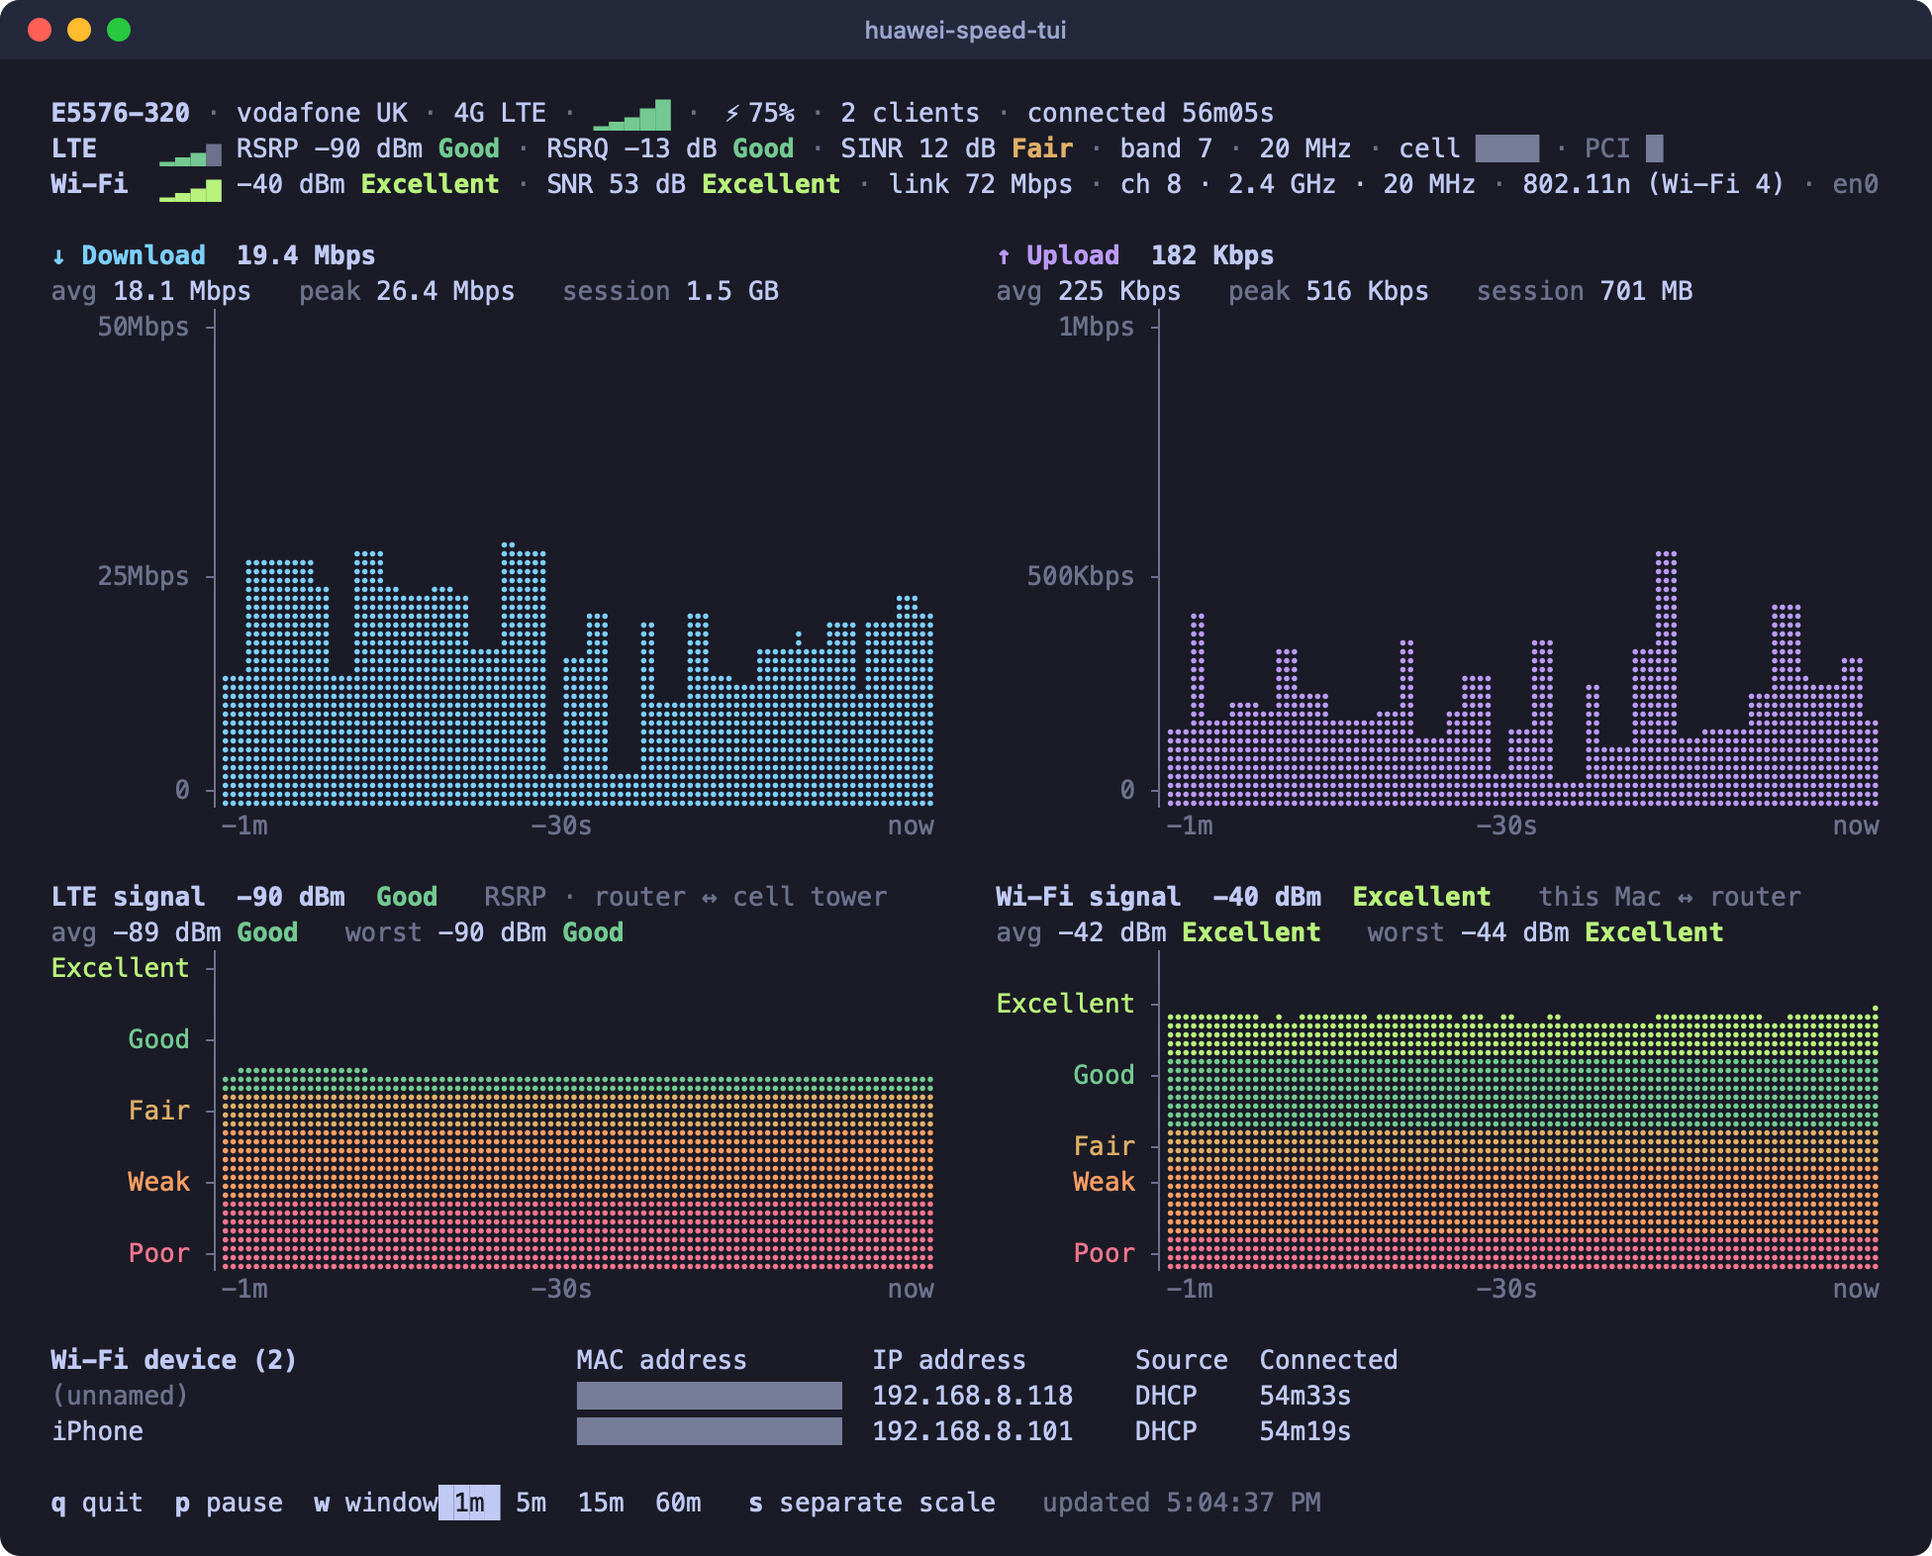
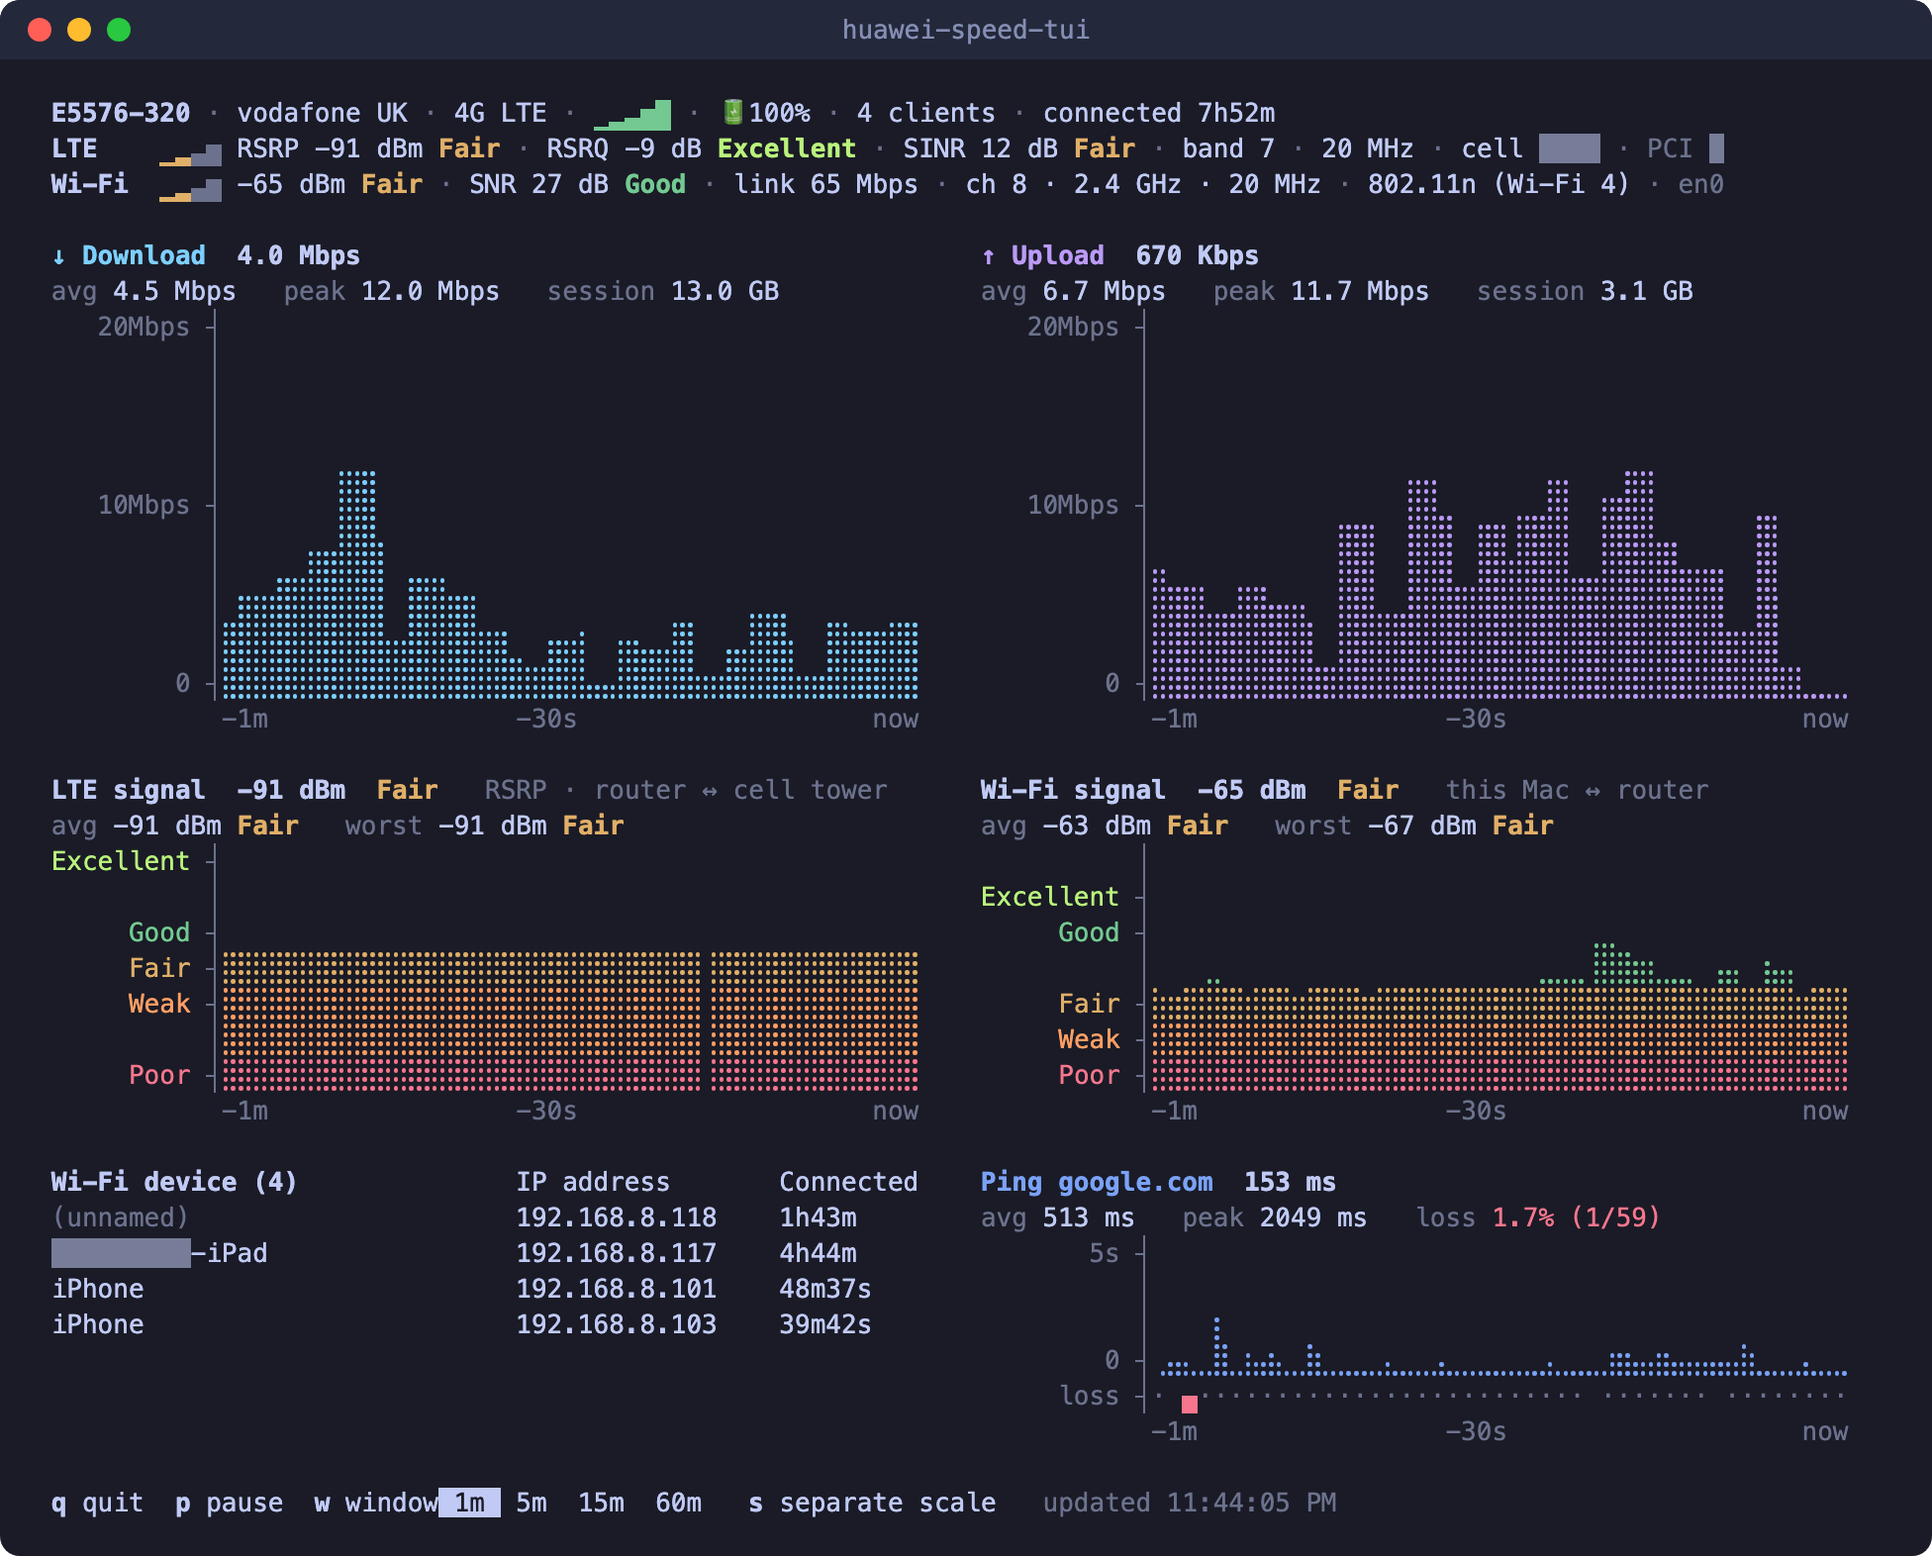
Release 1.1.0: add a ping latency and packet loss chart
- New panel next to the Wi-Fi device list pings a host on the internet
  (google.com, or --ping <host>) through the system ping and charts the
  round-trip time, with a strip underneath marking lost packets. Late
  replies are not counted as lost; a name that doesn't resolve is
  retried every few seconds. The device table now takes the left half
  of the bottom row.
- Fix the last character of full-width lines being erased, which made
  the right-hand time axes read "no" instead of "now" on odd-width
  terminals: clear each line before writing it instead of after.
- Update the screenshot (cell ID, PCI and the owner's name in a device
  name are redacted).

diff --git a/src/main.ts b/src/main.ts
@@ -12,6 +12,7 @@ import {
   rate,
   type Band,
 } from './ratings.ts';
+import { PingMonitor } from './ping.ts';
 import { WifiMonitor } from './wifi.ts';
 
 const HELP = `huawei-speed-tui — live upload/download charts for Huawei mobile WiFi
@@ -24,6 +25,8 @@ Options:
   --interval <seconds>  Polling interval (default: 1)
   --window <seconds>    Initial chart time window (default: 60)
   --snapshot <seconds>  Collect for N seconds, print one frame and exit
+  --ping <host>         Host to ping for latency and packet loss
+                        (default: google.com)
   --user <name>         Router admin user (default: admin)
                         (or set HUAWEI_USER)
   --password <pw>       Router admin password, needed for the device list
@@ -49,6 +52,7 @@ const { values: args } = parseArgs({
     interval: { type: 'string', default: '1' },
     window: { type: 'string', default: '60' },
     snapshot: { type: 'string' },
+    ping: { type: 'string', default: 'google.com' },
     user: { type: 'string' },
     password: { type: 'string' },
     help: { type: 'boolean', short: 'h' },
@@ -99,7 +103,9 @@ let mobile: MobileSignal | undefined;
 let mobileAt = 0;
 let mobileError = '';
 const mobileSamples: { t: number; rsrp: number }[] = [];
-const wifi = new WifiMonitor(new URL(host).hostname, intervalMs, (Math.max(...WINDOWS, windowSec) + 60) * 1000);
+const keepMs = (Math.max(...WINDOWS, windowSec) + 60) * 1000;
+const wifi = new WifiMonitor(new URL(host).hostname, intervalMs, keepMs);
+const ping = new PingMonitor(args.ping, intervalMs, keepMs);
 
 // ---- ANSI helpers ---------------------------------------------------------
 
@@ -113,6 +119,7 @@ const c = {
   yellow: `${ESC}33m`,
   down: `${ESC}36m`, // cyan
   up: `${ESC}35m`, // magenta
+  ping: `${ESC}94m`, // bright blue
   inverse: `${ESC}7m`,
 };
 // Rating colours, indexed by rate().level: Poor … Excellent.
@@ -404,6 +411,69 @@ function renderWifiPanel(width: number, rows: number, end: number): string[] {
   );
 }
 
+// ---- ping (latency and packet loss to the internet) ---------------------------
+
+function latencyLabel(ms: number): string {
+  return ms >= 1000 ? `${ms / 1000}s` : `${ms}ms`;
+}
+
+/** Title, stats, a latency chart `rows - 1` high with a packet-loss strip below it, and a time axis. */
+function renderPingPanel(width: number, rows: number, end: number): string[] {
+  const windowMs = windowSec * 1000;
+  const recent = ping.samples.filter((s) => s.t >= end - windowMs && s.t <= end);
+  const error = ping.error ? paint(c.red, `⚠ ${ping.error}`) : '';
+  const title = paint(c.bold + c.ping, `Ping ${ping.target}`);
+  if (!recent.length) return [` ${title}`, ` ${error || paint(c.dim, 'waiting for replies…')}`];
+
+  const gapMs = ping.intervalMs * 3 + 1000;
+  const latest = recent.at(-1)!;
+  let current = '';
+  if (end - latest.t < gapMs) {
+    current = latest.rtt === null ? paint(c.bold + c.red, 'lost') : paint(c.bold, `${Math.round(latest.rtt)} ms`);
+  }
+  const lines = [` ${title}  ${current}   ${error}`];
+
+  const replies = recent.filter((s) => s.rtt !== null) as { t: number; rtt: number }[];
+  const lost = recent.length - replies.length;
+  const avg = replies.length ? replies.reduce((sum, s) => sum + s.rtt, 0) / replies.length : 0;
+  const peak = Math.max(0, ...replies.map((s) => s.rtt));
+  const loss = `${((lost / recent.length) * 100).toFixed(1)}% (${lost}/${recent.length})`;
+  lines.push(
+    (replies.length
+      ? ` ${paint(c.dim, 'avg')} ${Math.round(avg)} ms   ${paint(c.dim, 'peak')} ${Math.round(peak)} ms   `
+      : ' ') + `${paint(c.dim, 'loss')} ${lost ? paint(c.red, loss) : loss}`,
+  );
+
+  const cols = Math.max(1, width - AXIS_W);
+  const chartRows = Math.max(1, rows - 1);
+  const scaleMax = niceCeil(Math.max(50, peak));
+  const chart = renderArea(
+    resample(replies, (s) => s.rtt, cols * 2, end, windowMs, gapMs),
+    cols,
+    chartRows,
+    scaleMax,
+  );
+  for (let r = 0; r < chartRows; r++) {
+    let label = '';
+    if (r === 0) label = latencyLabel(scaleMax);
+    else if (r === Math.floor(chartRows / 2) && chartRows >= 5) label = latencyLabel(scaleMax / 2);
+    else if (r === chartRows - 1) label = '0';
+    const tick = label ? '┤' : '│';
+    lines.push(paint(c.dim, `${label.padStart(AXIS_W - 2)} ${tick}`) + paint(c.ping, chart[r]));
+  }
+
+  // Share of packets lost in each column: a dot for none, a red bar growing with the loss.
+  // No gap filling here, so a column without any ping result stays blank.
+  const lossBars = '▁▂▃▄▅▆▇█';
+  const strip = resample(recent, (s) => (s.rtt === null ? 1 : 0), cols, end, windowMs, 0)
+    .map((f) => (f === null ? ' ' : f === 0 ? paint(c.dim, '·') : paint(c.red, lossBars[Math.ceil(f * 8) - 1])))
+    .join('');
+  lines.push(paint(c.dim, `${'loss'.padStart(AXIS_W - 2)} ┤`) + strip);
+
+  lines.push(timeAxis(cols, AXIS_W));
+  return lines;
+}
+
 function signalBars(level: number, max: number, color = c.green): string {
   const bars = '▁▂▃▅▇';
   let out = '';
@@ -494,11 +564,15 @@ const PANEL_GAP = 3;
 function deviceTable(width: number, maxRows: number): string[] {
   const title = paint(c.bold, ' Wi-Fi devices');
   if (!client.canLogin) {
-    return [`${title}  ${paint(c.dim, 'set HUAWEI_PASSWORD (router admin password) to list connected devices')}`];
+    return [
+      title,
+      ` ${paint(c.dim, 'set HUAWEI_PASSWORD (router admin password)')}`,
+      ` ${paint(c.dim, 'to list connected devices')}`,
+    ];
   }
-  if (hostsError) return [`${title}  ${paint(c.red, `⚠ ${hostsError}`)}`];
-  if (!hosts) return [`${title}  ${paint(c.dim, 'loading…')}`];
-  if (hosts.length === 0) return [`${title}  ${paint(c.dim, 'no devices connected')}`];
+  if (hostsError) return [title, ` ${paint(c.red, `⚠ ${hostsError}`)}`];
+  if (!hosts) return [title, ` ${paint(c.dim, 'loading…')}`];
+  if (hosts.length === 0) return [title, ` ${paint(c.dim, 'no devices connected')}`];
 
   // Column widths include the 2-space gap before each column. When space is tight,
   // drop Source first, then MAC address.
@@ -536,14 +610,16 @@ function deviceTable(width: number, maxRows: number): string[] {
 
 function frame(width: number, height: number): string[] {
   // Layout, top to bottom: 3 header lines, blank, download | upload, blank,
-  // LTE signal | Wi-Fi signal, blank, device table, blank, footer. Each chart panel has
-  // a title, a stats line and a time axis around its chart rows.
-  const FIXED = 3 + 1 + 3 + 1 + 3 + 1 + 1 + 1;
-  const wantTable = hosts && hosts.length ? hosts.length + 1 : 1;
-  const tableRows = Math.max(1, Math.min(wantTable, height - FIXED - 5)); // keep ≥ 5 chart rows
-  const free = Math.max(0, height - FIXED - tableRows);
-  const signalRows = Math.max(2, Math.floor(free * 0.4));
-  const chartRows = Math.max(3, free - signalRows);
+  // LTE signal | Wi-Fi signal, blank, device table | ping, blank, footer. Each chart panel
+  // has a title, a stats line and a time axis around its chart rows.
+  const FIXED = 3 + 1 + 3 + 1 + 3 + 1 + 3 + 1 + 1;
+  const free = Math.max(0, height - FIXED);
+  // A long device list makes the bottom row taller (the ping chart grows with it), as
+  // long as the charts above keep 10 rows between them.
+  const wantTable = hosts && hosts.length ? hosts.length + 1 : 2;
+  const pingRows = Math.max(2, Math.floor(free * 0.25), Math.min(wantTable - 3, free - 10));
+  const signalRows = Math.max(2, Math.floor((free - pingRows) * 0.4));
+  const chartRows = Math.max(3, free - pingRows - signalRows);
   // Both columns get exactly the same width; any odd column is left empty on the right.
   const panelW = Math.max(1, Math.floor((width - PANEL_GAP) / 2));
   // Start the gap and the right column at absolute screen columns (CSI n G) instead of
@@ -572,9 +648,14 @@ function frame(width: number, height: number): string[] {
     (_, i) => fit(lte[i] ?? '', panelW) + gap + fit(wlan[i] ?? '', panelW),
   );
 
-  const table = deviceTable(width, tableRows);
+  const table = deviceTable(panelW, pingRows + 3);
+  const pings = renderPingPanel(panelW, pingRows, end);
+  const bottom = Array.from(
+    { length: pingRows + 3 },
+    (_, i) => fit(table[i] ?? '', panelW) + gap + fit(pings[i] ?? '', panelW),
+  );
 
-  return [header(), mobileHeader(), wifiHeader(), '', ...panels, '', ...signals, '', ...table, '', footer()];
+  return [header(), mobileHeader(), wifiHeader(), '', ...panels, '', ...signals, '', ...bottom, '', footer()];
 }
 
 function draw() {
@@ -585,7 +666,9 @@ function draw() {
   const lines = frame(width, height)
     .slice(0, height)
     .map((l) => fit(l, width));
-  process.stdout.write(`${ESC}H` + lines.map((l) => l + `${ESC}K`).join('\r\n') + `${ESC}J`);
+  // Clear each line before writing it, not after: once a line reaches the last column the
+  // cursor stays on it, and erasing to the end of the line would wipe that last character.
+  process.stdout.write(`${ESC}H` + lines.map((l) => `${ESC}2K` + l).join('\r\n') + `${ESC}J`);
 }
 
 // ---- polling --------------------------------------------------------------
@@ -653,6 +736,7 @@ async function poll() {
 // ---- main -----------------------------------------------------------------
 
 async function snapshot(seconds: number) {
+  ping.start();
   await wifi.start();
   const until = Date.now() + seconds * 1000;
   do {
@@ -665,6 +749,7 @@ async function snapshot(seconds: number) {
   );
   console.log(lines.join('\n'));
   wifi.stop();
+  ping.stop();
   await client.logout().catch(() => {});
 }
 
@@ -678,6 +763,7 @@ function interactive() {
   process.stdout.write(`${ESC}?1049h${ESC}?25l${ESC}?7l${ESC}2J`);
   const cleanup = () => {
     wifi.stop();
+    ping.stop();
     process.stdout.write(`${ESC}?7h${ESC}?25h${ESC}?1049l`);
   };
   let quitting = false;
@@ -729,6 +815,7 @@ function interactive() {
     setTimeout(loop, intervalMs);
   };
   draw();
+  ping.start();
   void wifi.start().then(draw);
   void loop();
 }

diff --git a/src/ping.ts b/src/ping.ts
@@ -1,0 +1,88 @@
+// Latency and packet loss to a host on the internet, measured by the system `ping`
+// running continuously in the background.
+
+import { spawn, type ChildProcess } from 'node:child_process';
+import { createInterface } from 'node:readline';
+
+const RESTART_AFTER_MS = 5_000;
+
+export interface PingSample {
+  t: number;
+  seq: number;
+  rtt: number | null; // ms; null if the packet was lost
+}
+
+export class PingMonitor {
+  /** Last thing ping complained about; cleared by the next reply. */
+  error = '';
+  readonly samples: PingSample[] = [];
+  readonly target: string;
+  readonly intervalMs: number;
+
+  private readonly keepMs: number;
+  private child: ChildProcess | undefined;
+  private restartTimer: NodeJS.Timeout | undefined;
+  private stopped = false;
+
+  constructor(target: string, intervalMs: number, keepMs: number) {
+    this.target = target;
+    // Unprivileged ping refuses intervals below a second on some systems.
+    this.intervalMs = Math.max(1000, intervalMs);
+    this.keepMs = keepMs;
+  }
+
+  start(): void {
+    this.stopped = false;
+    // -n: no reverse DNS lookups. -O (Linux): report each unanswered packet, as macOS
+    // does by default ("Request timeout for icmp_seq N").
+    const args = ['-n', '-i', String(this.intervalMs / 1000)];
+    if (process.platform === 'linux') args.push('-O');
+    args.push(this.target);
+
+    const child = spawn('ping', args, { stdio: ['ignore', 'pipe', 'pipe'] });
+    this.child = child;
+    let stderr = '';
+    child.on('error', () => {
+      this.error = 'could not run ping';
+    });
+    child.on('exit', () => {
+      if (this.child !== child) return;
+      this.child = undefined;
+      // Most likely the name didn't resolve (no internet yet); keep trying.
+      this.error = stderr.trim().split('\n').at(-1)?.replace(/^ping: /, '') || 'ping stopped';
+      if (!this.stopped) this.restartTimer = setTimeout(() => this.start(), RESTART_AFTER_MS);
+    });
+    child.stderr!.on('data', (d: Buffer) => {
+      stderr = (stderr + d.toString()).slice(-500);
+      const last = stderr.trim().split('\n').at(-1);
+      if (last) this.error = last.replace(/^ping: /, '');
+    });
+    createInterface({ input: child.stdout! }).on('line', (line) => this.onLine(line));
+  }
+
+  stop(): void {
+    this.stopped = true;
+    clearTimeout(this.restartTimer);
+    const child = this.child;
+    this.child = undefined;
+    child?.kill();
+  }
+
+  private onLine(line: string): void {
+    const seq = Number(line.match(/icmp_seq[= ](\d+)/)?.[1]);
+    if (Number.isNaN(seq)) return;
+    const now = Date.now();
+    const time = line.match(/time[=<]([\d.]+) ?ms/);
+    if (time) {
+      this.error = '';
+      const rtt = Number(time[1]);
+      // A reply that arrives after ping already reported the packet as lost was only late.
+      const late = this.samples.findLast((s) => s.seq === seq && s.rtt === null && now - s.t < 60_000);
+      if (late) late.rtt = rtt;
+      else this.samples.push({ t: now, seq, rtt });
+    } else if (/timeout|no answer/i.test(line)) {
+      this.samples.push({ t: now, seq, rtt: null });
+    }
+    while (this.samples.length && this.samples[0].t < now - this.keepMs) this.samples.shift();
+  }
+}

diff --git a/README.md b/README.md
@@ -3,12 +3,13 @@
 Live terminal charts of mobile data download/upload speed for Huawei HiLink mobile WiFi
 routers (built for the E5576-320). No runtime dependencies — Node runs the TypeScript directly.
 
-![huawei-speed-tui showing download/upload speed, LTE and Wi-Fi signal charts and the connected devices](docs/screenshot.png)
+![huawei-speed-tui showing download/upload speed, LTE and Wi-Fi signal charts, the connected devices and a ping chart](docs/screenshot.png)
 
 ```
 npm install        # only needed for `npm run typecheck`
 npm start          # connect to http://192.168.8.1
 npm start -- --host 192.168.1.1 --interval 2 --window 900
+npm start -- --ping 1.1.1.1  # ping another host (default: google.com)
 npm start -- --snapshot 10   # collect 10 s, print one frame, exit
 ```
 
@@ -27,10 +28,16 @@ Command-line options win over environment variables, which win over `.env`.
 
 Keys: `q` quit · `p` pause · `w` cycle window (1m / 5m / 15m / 60m) · `s` toggle shared y-scale
 
-At the bottom, a table lists the connected Wi-Fi devices: name, MAC address, IPv4 address,
+At the bottom left, a table lists the connected Wi-Fi devices: name, MAC address, IPv4 address,
 address source (DHCP/static) and how long each has been connected. The device list needs the router admin
 password: pass `--password` or set `HUAWEI_PASSWORD` (in the environment or `.env`); without it
 the device list and LTE signal details are skipped. A rejected password is never retried, so the router won't lock the account.
+
+Next to the device table, a ping chart shows the round-trip time to `google.com` (or the host
+given with `--ping`), with avg, peak and packet loss over the time window. A strip under the chart
+marks lost packets in red: the taller the bar, the more packets were lost at that time. It runs the
+system `ping` once a second (or at `--interval`, if longer), and keeps retrying if the name
+doesn't resolve.
 
 Below the speed charts, an LTE signal chart shows the router's link to the cell tower (RSRP,
 rated Excellent (≥ −80 dBm) · Good (≥ −90) · Fair (≥ −100) · Weak (≥ −110) · Poor), and a header
